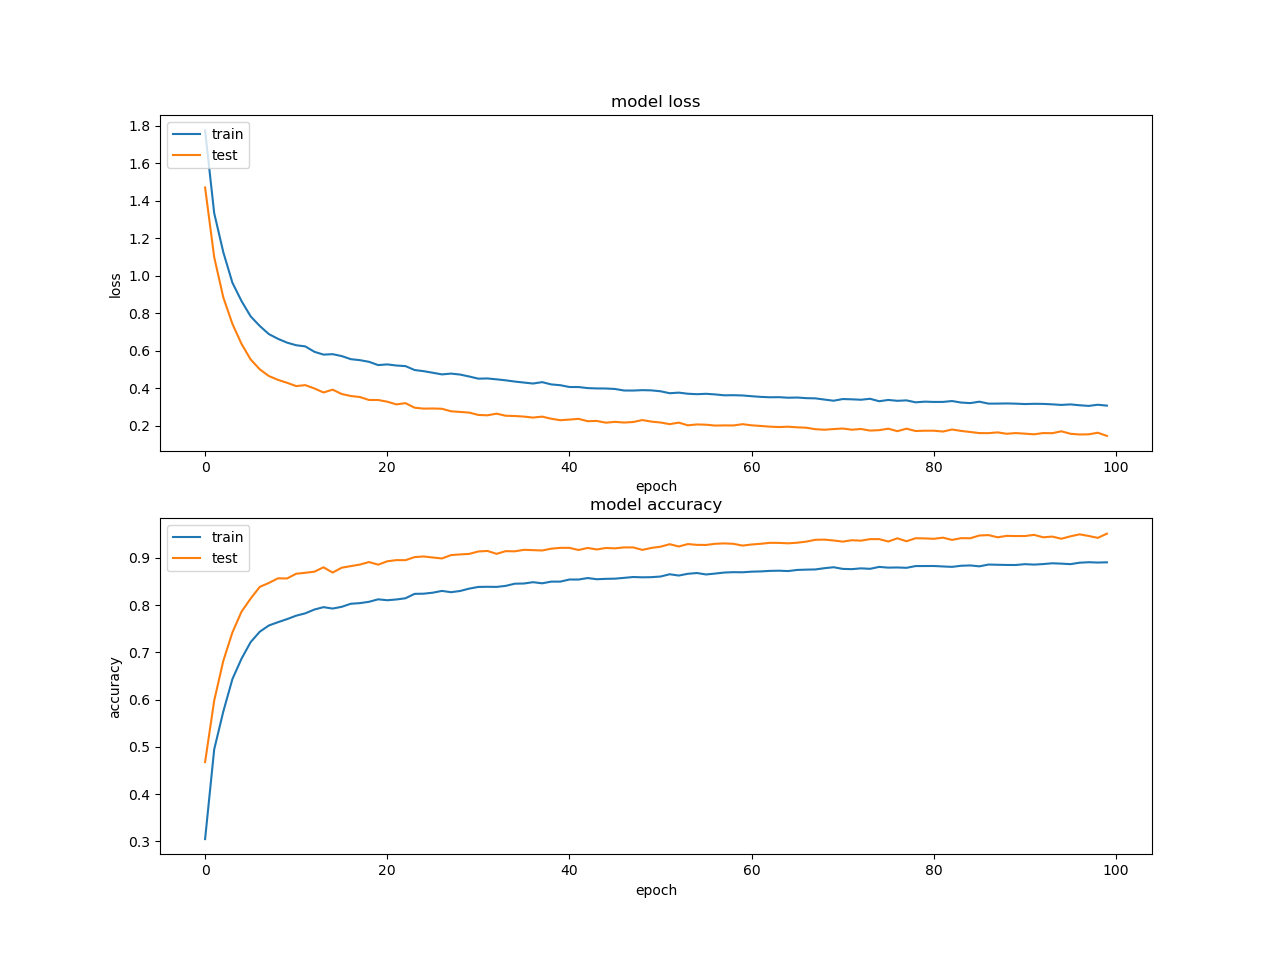
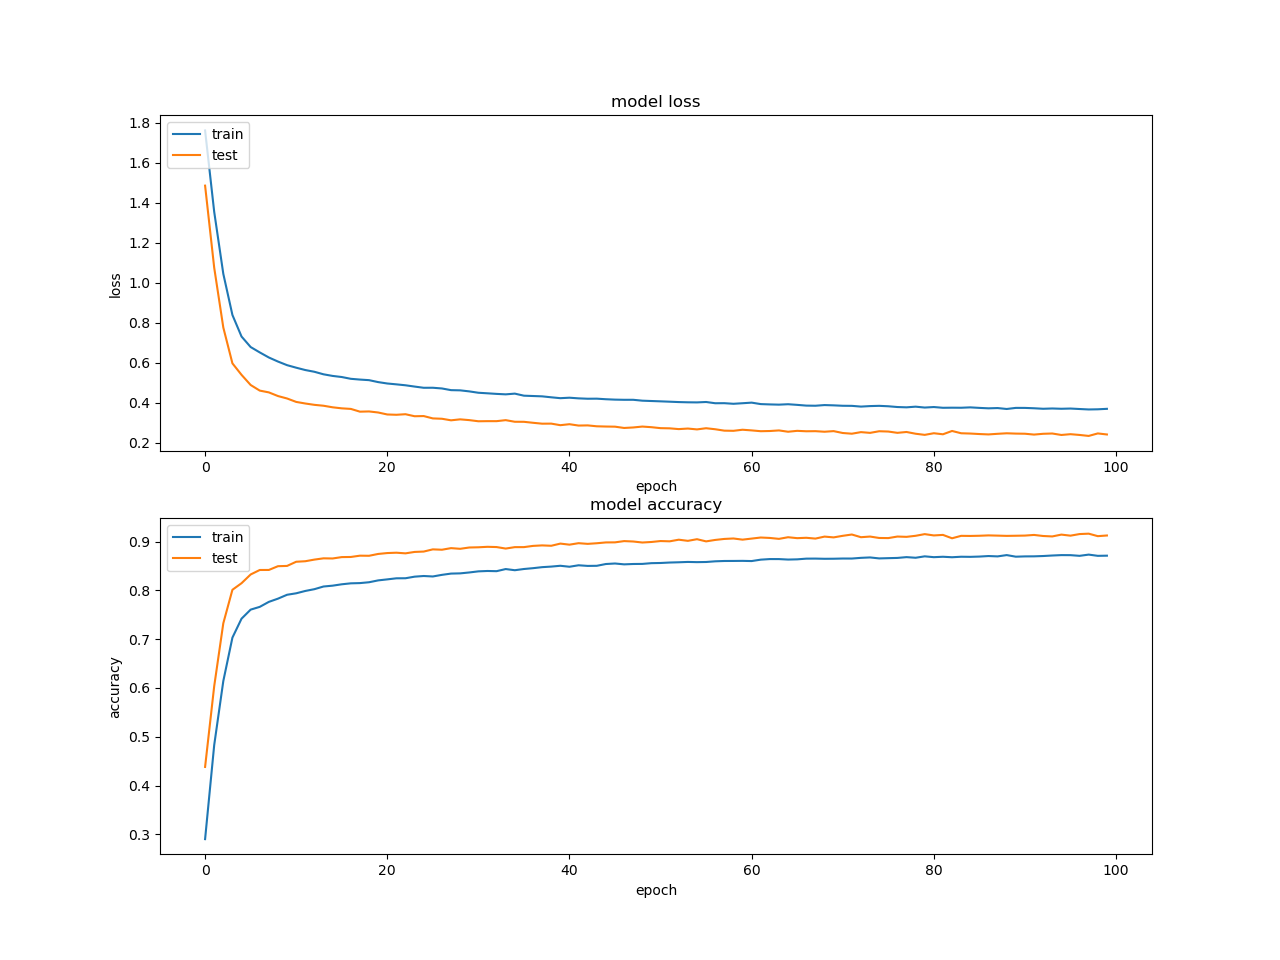
got 99% val acc

diff --git a/lstm/deeper_lstm.py b/lstm/deeper_lstm.py
@@ -1,5 +1,5 @@
 import numpy as np
-from load_pretrain import read_data, read_data_unrolled, read_data_filtered
+from load_pretrain import  read_data_filtered_augmented
 from keras import optimizers
 from keras.layers import Dense, Dropout, LSTM, Input, Bidirectional
 from keras.layers import Embedding, Activation, BatchNormalization
@@ -8,24 +8,39 @@ from keras.utils import to_categorical
 from keras.utils.generic_utils import get_custom_objects
 from keras import backend as K
 from keras.preprocessing.sequence import TimeseriesGenerator
+from keras.callbacks import TensorBoard
+import math
 import matplotlib.pyplot as plt
 
 
 
-X, y = read_data_filtered("../PreTrainingDataset")
+X, y = read_data_filtered_augmented("../PreTrainingDataset")
 y = to_categorical(y)
 
 X.shape
 
-# this is a pretty decent classifier, I saved the plot so we can see how it
-# works.
 
-class lstm_classifier:
+# I dont think there is much benefit to stacking LSTM layers in our case. The
+# idea of a stacked RNN is to evaluate the data at different timescales, and I
+# believe that this may not be beneficial in our approach
+
+class stacked_lstm_classifier:
     def __init__(self, X, y, act = 'tanh', dropout = 0, stateful = False):
         n_timesteps, n_features, n_outputs = X.shape[1], X.shape[2], y.shape[1]
         start = Input((None, n_features), name = 'Input')
-        x = Bidirectional(LSTM(20, activation = act, name = 'LSTM_1', stateful = stateful, dropout = dropout, recurrent_dropout = dropout))(start)
-        x = Dense(40, activation =act)(x)
+        x = (LSTM(20,
+                               activation = act,
+                               name = 'LSTM_1',
+                               stateful = stateful,
+                               dropout = dropout,
+                               recurrent_dropout = dropout,
+                               return_sequences=True))(start)
+        x = (LSTM(40,
+                               activation = act,
+                               name = 'LSTM_2',
+                               stateful = stateful,
+                               dropout = dropout,
+                               recurrent_dropout = dropout))(x)
         out = Dense(n_outputs, activation = 'softmax')(x)
         self.model = Model(start, out)
 
@@ -34,22 +49,25 @@ class lstm_classifier:
                 'loss' : 'categorical_crossentropy',
                 'metrics' : ['accuracy']},
             fit_options = {
-                'epochs': 100,
+                'epochs': 50,
                 'batch_size':400,
                 'validation_split':0.33,
                 'shuffle':False,
                 'verbose':1
-            }):
-        adam = optimizers.adam(lr = lr)
-        self.model.compile(optimizer = adam, **compilation_options)
-        self.history = self.model.fit(X, y, **fit_options)
+            }, tensorboard = True):
+        if tensorboard:
+            callbacks = TensorBoard(batch_size = fit_options['batch_size'], update_freq=4000 , histogram_freq=1)
+            adam = optimizers.adam(lr = lr)
+            self.model.compile(optimizer = adam, **compilation_options)
+            self.history = self.model.fit(X, y, **fit_options, callbacks = [callbacks])
+        else:
+            adam = optimizers.adam(lr = lr)
+            self.model.compile(optimizer = adam, **compilation_options)
+            self.history = self.model.fit(X, y, **fit_options)
 
+lstm = stacked_lstm_classifier(X, y, dropout = 0.1)
 
-
-
-
-lstm = lstm_classifier(X, y, dropout = 0.5)
-lstm.fit(X,y)
+lstm.fit(X,y, tensorboard = False)
 
 history = lstm.history
 
@@ -71,3 +89,75 @@ plt.legend(['train', 'test'], loc='upper left')
 plt.show()
 
 
+def calculate_nodes(X, y, alpha = 2):
+    Ns = X.shape[0]
+    Ni = X.shape[2]
+    No = y.shape[-1]
+    Nh = Ns / (alpha * (Ni + No))
+    return math.floor(Nh)
+
+# I think this should
+
+class wide_lstm_classifier:
+    def __init__(self, X, y, act = 'tanh', dropout = 0, batch_norm = False):
+        n_timesteps, n_features, n_outputs = X.shape[1], X.shape[2], y.shape[1]
+        start = Input((None, n_features), name = 'Input')
+        x = Bidirectional(LSTM(60, activation = act,name = 'LSTM_1',
+                  dropout = dropout,
+                  recurrent_dropout = dropout))(start)
+        if batch_norm:
+            x = BatchNormalization()(x)
+        out = Dense(n_outputs, activation = 'softmax')(x)
+        self.model = Model(start, out)
+
+    def fit(self, X, y, lr = .001,
+            compilation_options = {
+                'loss' : 'categorical_crossentropy',
+                'metrics' : ['accuracy']},
+            fit_options = {
+                'epochs': 50,
+                'batch_size':400,
+                'validation_split':0.33,
+                'shuffle':False,
+                'verbose':1
+            }, tensorboard = True):
+        if tensorboard:
+            callbacks = TensorBoard(batch_size = fit_options['batch_size'], update_freq=4000 , histogram_freq=1)
+            adam = optimizers.adam(lr = lr)
+            self.model.compile(optimizer = adam, **compilation_options)
+            self.history = self.model.fit(X, y, **fit_options, callbacks = [callbacks])
+        else:
+            adam = optimizers.adam(lr = lr)
+            self.model.compile(optimizer = adam, **compilation_options)
+            self.history = self.model.fit(X, y, **fit_options)
+
+
+lstm = wide_lstm_classifier(X, y, dropout = 0.1, batch_norm = False)
+
+lstm.fit(X,y, tensorboard=False, lr = 0.0005)
+
+history = lstm.history
+
+print(history.history['val_acc'])
+
+
+plt.subplot(212)
+plt.plot(history.history['acc'])
+plt.plot(history.history['val_acc'])
+plt.title('model accuracy')
+plt.ylabel('accuracy')
+plt.xlabel('epoch')
+plt.legend(['train', 'test'], loc='upper left')
+# summarize history for loss
+plt.subplot(211)
+plt.plot(history.history['loss'])
+plt.plot(history.history['val_loss'])
+plt.title('model loss')
+plt.ylabel('loss')
+plt.xlabel('epoch')
+plt.legend(['train', 'test'], loc='upper left')
+F = plt.gcf()
+Size = F.get_size_inches()
+F.set_size_inches(Size[0]*2, Size[1]*2)
+plt.savefig("wide_lstm_training.png")
+plt.show()

diff --git a/lstm/load_pretrain.py b/lstm/load_pretrain.py
@@ -3,11 +3,14 @@ from scipy import signal
 from sklearn.preprocessing import MinMaxScaler
 
 # load up the first example first!
+
 def read_file(path):
     f = np.array(np.fromfile(path, dtype = np.int16))
     return f.reshape(int(f.shape[0]/8),8)
 
 
+# the output of this function is a list of (timesteps, features) arrays, as well
+# as some labels
 def read_group_to_lists(path, n_classes = 7):
     # grab in all the male candidates
     res = []
@@ -29,18 +32,21 @@ def read_group_to_lists(path, n_classes = 7):
 
     return res, labels
 
-# longest run is 1038, so we will pad to that
-# pad around axis
-# thankful for stack overflow today!
 
-
+# this is the key sliding window function, stepsize is the distance apart each
+# window is (so for example with the defaults, if the data is measure in
+# seconds, we are going to take 3 second windows with 2 (width-stepsize) overlap)
+# This function takes in an array of (timesteps, features), and outputs an array
+# of (time related number, features, samples). This has the bonus of
+# preformatting the data for an LSTM
 def window_stack(a, stepsize=1, width=3):
     n = a.shape[0]
     return np.dstack( a[i:1+n+i-width:stepsize] for i in range(0,width) )
 
 
 
-
+# pads along the axis of a numpy array, to make them all the same length, that
+# way our list can be dstacked into an array
 def pad_along_axis(array: np.ndarray, target_length, axis=0):
     pad_size = target_length - array.shape[axis]
     axis_nb = len(array.shape)
@@ -53,12 +59,12 @@ def pad_along_axis(array: np.ndarray, target_length, axis=0):
 
 
 
-
 # window size = 260 ms, as per the original paper
 # data collected at 200 hz, so roughly 5 seconds of data
 # stepsize = 5 seconds, as per original paper
-# trials_rolled = [window_stack(x, 5, int(260/5)) for x in trials_padded]
+# trials_rolled = [window_stack(x, 21, int(260/5)) for x in trials_padded]
 
+# to get the labels to match up with our windows
 def roll_labels(x, y):
     labs_rolled = []
     for i in range(len(y)):
@@ -69,7 +75,8 @@ def roll_labels(x, y):
 
 
 def read_data(path, n_classes = 7, scale = False):
-    # read in trials and label them
+    # read in trials and label them, data format is list of (timesteps,
+    # features) arrays
     trials_all, labs  = read_group_to_lists(path, n_classes = n_classes)
     # get maximum length for padding
     maxlen = max([x.shape[0] for x in trials_all])
@@ -78,9 +85,11 @@ def read_data(path, n_classes = 7, scale = False):
     # pad data for the lstm
     trials_padded = [pad_along_axis(x, maxlen, axis=0) for x in trials_all]
     # sliding window trials
-    trials_rolled = [window_stack(x, 5, int(260/5)) for x in trials_padded]
-    # force into proper arrays
+    # new data format is a list of (time related deal, features, samples) arrays
+    trials_rolled = [window_stack(x, 21, int(260/5)) for x in trials_padded]
     trainy = roll_labels(trials_rolled, labs)
+    # then we just concatenate the list, formatting the data as a new numpy
+    # array with dims (samples, time, features)
     trainx = np.moveaxis(np.concatenate(trials_rolled, axis = 2), 2, 0)
     return trainx, trainy
 
@@ -99,6 +108,7 @@ def read_data_unrolled(path, n_classes = 7):
     return trainx, trainy
 
 
+# high pass butterworth filter discussed in the paper
 def butter_highpass(cutoff, fs, order=3):
     # nyquist frequency!!
     nyq = .5*fs
@@ -124,6 +134,7 @@ def butter_highpass_filter(data, cutoff, fs, order=3):
 
 def read_data_filtered(path, n_classes = 7, scale = False):
     trials_all, labs  = read_group_to_lists(path, n_classes = n_classes)
+    # same thing as read_data but its got a filter
     trials_all = [butter_highpass_filter(x, 2, 200) for x in trials_all]
     if (scale):
         trials_all = [MinMaxScaler().fit_transform(x) for x in trials_all]
@@ -133,7 +144,7 @@ def read_data_filtered(path, n_classes = 7, scale = False):
     # pad data for the lstm
     trials_padded = [pad_along_axis(x, maxlen, axis=0) for x in trials_all]
     # sliding window trials
-    trials_rolled = [window_stack(x, 5, int(260/5)) for x in trials_padded]
+    trials_rolled = [window_stack(x, 21, int(260/5)) for x in trials_padded]
     # force into proper arrays
     trainy = roll_labels(trials_rolled, labs)
     trainx = np.moveaxis(np.concatenate(trials_rolled, axis = 2), 2, 0)
@@ -232,20 +243,23 @@ def add_noise_snr(signal, snr = 25):
 # [i.shape for i in x2]
 
 def read_data_filtered_augmented(path, n_classes = 7, scale = False):
+    # read data [(time, feat)]
     trials_all, labs  = read_group_to_lists(path, n_classes = n_classes)
+    # shift electrodes for double data
     trials_all, labs = augment_data(trials_all, labs)
+    # add noisy data while preserving SNR of 25, doubling data again
     trials_all = trials_all + [add_noise_snr(i) for i in trials_all]
     labs = labs + labs
+    # butterworth
     trials_all = [butter_highpass_filter(x, 2, 200) for x in trials_all]
     if (scale):
         trials_all = [MinMaxScaler().fit_transform(x) for x in trials_all]
     # get maximum length for padding
     maxlen = max([x.shape[0] for x in trials_all])
-
     # pad data for the lstm
     trials_padded = [pad_along_axis(x, maxlen, axis=0) for x in trials_all]
     # sliding window trials
-    trials_rolled = [window_stack(x, 5, int(260/5)) for x in trials_padded]
+    trials_rolled = [window_stack(x, 21, int(260/5)) for x in trials_padded]
     # force into proper arrays
     trainy = roll_labels(trials_rolled, labs)
     trainx = np.moveaxis(np.concatenate(trials_rolled, axis = 2), 2, 0)
